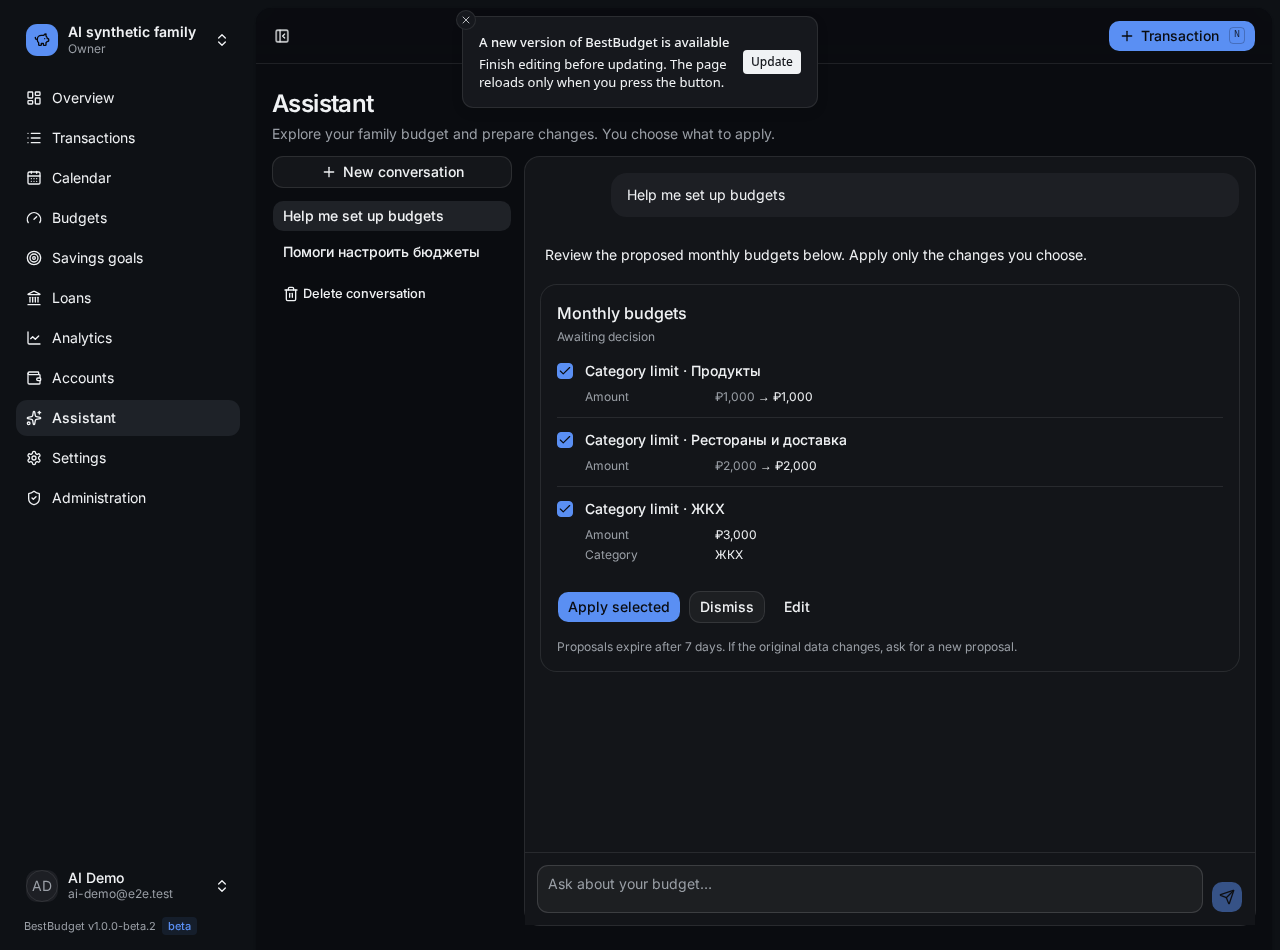
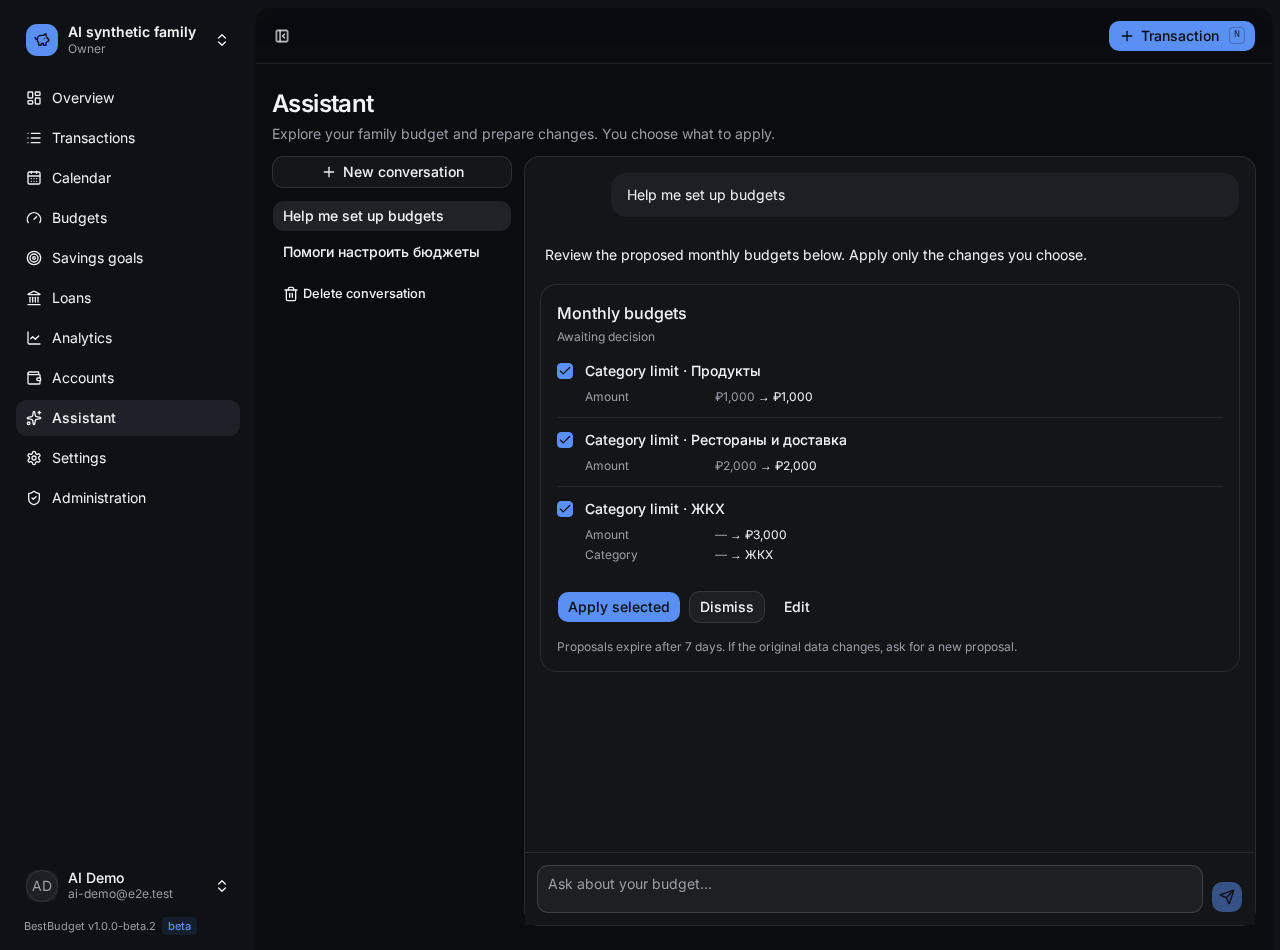
fix(ai): snapshot references and preserve transfer currencies

Changed region(s): [[0.375, 0.0305, 0.625, 0.0916], [0.5625, 0.5495, 0.625, 0.6105]]

diff --git a/tests/integration/ai.test.ts b/tests/integration/ai.test.ts
@@ -24,7 +24,9 @@ import { chatResponse } from "@/server/ai/chat"
 import { applyProposal, createProposal, listProposals } from "@/server/ai/proposals"
 import { buildTools, toolRegistry } from "@/server/ai/tools"
 import { setBudget } from "@/server/services/budgets"
-import { createAccount } from "@/server/services/catalog"
+import { createRules } from "@/server/services/recurring"
+import { proposalCurrency } from "@/domain/ai/description"
+import { createAccount, updateAccount, updateCategory } from "@/server/services/catalog"
 import { todayIn } from "@/lib/dates"
 import { createTransaction } from "@/server/services/transactions"
 import { AI_TURN_RESERVATION } from "@/domain/ai/types"
@@ -245,13 +247,12 @@ describe("AI foundation", () => {
     expect((await householdAiView(f.ctx)).enabled).toBe(true)
   })
   it("rolls back earlier service writes if a later item fails service validation", async () => {
-    const f = await enabled(),
-      other = await setupHousehold("Other account")
+    const f = await enabled()
     const p = await pending(f, [
       { type: "account.create", input: { name: "Rollback account", kind: "savings", currency: "RUB", openingBalance: 0 } },
       {
         type: "goal.create",
-        input: { name: "Wrong reference", kind: "account", accountId: other.mainAccount, currency: "RUB", targetAmount: 1000 },
+        input: { name: "Wrong reference", kind: "account", accountId: f.mainAccount, currency: "RUB", targetAmount: 1000 },
       },
     ])
     await expect(
@@ -260,7 +261,7 @@ describe("AI foundation", () => {
         p.id,
         p.items.map((i) => i.id),
       ),
-    ).rejects.toMatchObject({ code: "not_found" })
+    ).rejects.toMatchObject({ messageKey: "goal.activeSavingsAccount" })
     expect(
       await db
         .select()
@@ -329,16 +330,43 @@ describe("AI foundation", () => {
   it("warns the model when a planned foreign-currency payment has no exchange rate", async () => {
     const f = await enabled()
     const account = await createAccount(f.ctx, { name: "USD", kind: "cash", currency: "USD", openingBalance: 0 })
-    await createTransaction(f.ctx, { type: "expense", status: "planned", accountId: account.id, categoryId: f.cat("Продукты"), date: todayIn(f.ctx.timezone), amount: 100 })
-    const result = await toolRegistry.get("get_forecast")!.execute({ days: 7 }, { ctx: f.ctx, conversationId: f.conversation.id, messageId: randomUUID() }) as { warnings: string[] }
+    await createTransaction(f.ctx, {
+      type: "expense",
+      status: "planned",
+      accountId: account.id,
+      categoryId: f.cat("Продукты"),
+      date: todayIn(f.ctx.timezone),
+      amount: 100,
+    })
+    const result = (await toolRegistry
+      .get("get_forecast")!
+      .execute({ days: 7 }, { ctx: f.ctx, conversationId: f.conversation.id, messageId: randomUUID() })) as { warnings: string[] }
     expect(result.warnings.some((warning) => warning.includes("USD"))).toBe(true)
   })
 
   it("retries an interrupted tool call with a fresh assistant ID and keeps later turns usable", async () => {
     const f = await enabled()
-    const input = { id: f.conversation.id, message: { id: randomUUID(), role: "user" as const, parts: [{ type: "text" as const, text: "Help me set up budgets" }] } }
+    const input = {
+      id: f.conversation.id,
+      message: { id: randomUUID(), role: "user" as const, parts: [{ type: "text" as const, text: "Help me set up budgets" }] },
+    }
     const interrupted = await beginTurn(f.ctx, input)
-    await finishTurn(f.ctx, interrupted, { id: interrupted.messageId, role: "assistant", parts: [{ type: "text", text: "Partial response" }, { type: "tool-list_accounts", toolCallId: "interrupted", state: "input-available", input: {} }] }, 100, 0, 1, "provider_error")
+    await finishTurn(
+      f.ctx,
+      interrupted,
+      {
+        id: interrupted.messageId,
+        role: "assistant",
+        parts: [
+          { type: "text", text: "Partial response" },
+          { type: "tool-list_accounts", toolCallId: "interrupted", state: "input-available", input: {} },
+        ],
+      },
+      100,
+      0,
+      1,
+      "provider_error",
+    )
     const response = await chatResponse(f.ctx, input)
     const stream = await response.text()
     expect(stream).toContain("propose_budget_changes")
@@ -348,6 +376,71 @@ describe("AI foundation", () => {
     expect(proposal!.messageId).not.toBe(interrupted.messageId)
     const next = await chatResponse(f.ctx, { ...input, message: { ...input.message, id: randomUUID() } })
     expect(await next.text()).not.toContain('"type":"error"')
+  })
+
+  it("preserves source and destination currencies for both sides of proposal changes", async () => {
+    const f = await enabled("detailed")
+    const usd = await createAccount(f.ctx, { name: "USD", kind: "cash", currency: "USD", openingBalance: 0 })
+    const eur = await createAccount(f.ctx, { name: "EUR", kind: "cash", currency: "EUR", openingBalance: 0 })
+    const rule = {
+      type: "transfer" as const,
+      accountId: usd.id,
+      toAccountId: eur.id,
+      amount: 100,
+      toAmount: 200,
+      frequency: "once" as const,
+      startDate: todayIn(f.ctx.timezone),
+    }
+    const [created] = await createRules(f.ctx, { rule })
+    const proposal = await pending(f, [
+      {
+        type: "recurring.update",
+        input: {
+          id: created!.id,
+          version: created!.version,
+          rule: { ...rule, accountId: f.mainAccount, toAccountId: usd.id, amount: 5000, toAmount: 100 },
+        },
+      },
+    ])
+    const item = proposal.items[0]!
+    expect(proposalCurrency(item, "amount", true)).toBe("USD")
+    expect(proposalCurrency(item, "amount")).toBe("RUB")
+    expect(proposalCurrency(item, "toAmount", true)).toBe("EUR")
+    expect(proposalCurrency(item, "toAmount")).toBe("USD")
+    await applyProposal(f.ctx, proposal.id, [item.id])
+    const transaction = await createTransaction(f.ctx, {
+      type: "expense",
+      status: "posted",
+      accountId: usd.id,
+      categoryId: f.cat("Продукты"),
+      date: todayIn(f.ctx.timezone),
+      amount: 100,
+    })
+    const recategorize = await pending(f, [{ type: "transaction.recategorize", input: { id: transaction.id, categoryId: f.cat("ЖКХ") } }])
+    expect(recategorize.items[0]).toMatchObject({ currency: "USD", beforeCurrency: "USD" })
+  })
+  it("rejects changes to referenced account currencies and category identities", async () => {
+    const f = await enabled()
+    const usd = await createAccount(f.ctx, { name: "USD", kind: "cash", currency: "USD", openingBalance: 0 })
+    const rule = await pending(f, [
+      {
+        type: "recurring.create",
+        input: {
+          type: "expense",
+          accountId: usd.id,
+          categoryId: f.cat("Продукты"),
+          amount: 100,
+          frequency: "monthly",
+          startDate: todayIn(f.ctx.timezone),
+        },
+      },
+    ])
+    await updateAccount(f.ctx, usd.id, { name: "EUR", kind: "cash", currency: "EUR", openingBalance: 0, version: usd.version })
+    await expect(applyProposal(f.ctx, rule.id, [rule.items[0]!.id])).rejects.toMatchObject({ code: "conflict" })
+    const budget = await pending(f)
+    const categoryId = (budget.items[0]!.input as { categoryId: string }).categoryId
+    await updateCategory(f.ctx, categoryId, { name: "Renamed", icon: "circle", color: "#123456" })
+    await expect(applyProposal(f.ctx, budget.id, [budget.items[0]!.id])).rejects.toMatchObject({ code: "conflict" })
   })
 
 })

diff --git a/src/server/ai/proposal-registry.ts b/src/server/ai/proposal-registry.ts
@@ -1,8 +1,8 @@
 import "server-only"
-import { and, eq } from "drizzle-orm"
+import { and, asc, eq, inArray } from "drizzle-orm"
 import { z } from "zod"
 import { getDb } from "@/db"
-import { categories, categoryBudgets, goals, recurringRules, transactions } from "@/db/schema"
+import { categories, categoryBudgets, financialAccounts, goals, recurringRules, transactions } from "@/db/schema"
 import type { Permission } from "@/domain/permissions"
 import type { HouseholdCtx } from "@/server/context"
 import { notFound } from "@/server/errors"
@@ -60,18 +60,54 @@ async function owned(
   if (!row) throw notFound()
   return JSON.parse(JSON.stringify(row)) as Record<string, unknown>
 }
-const versioned = (table: Parameters<typeof owned>[1]) => (ctx: HouseholdCtx, input: { id: string }, lock: boolean) =>
-  owned(ctx, table, input.id, lock)
+/** Capture referenced accounts/categories as well as the edited entity; their currencies and labels can change independently. */
+async function referenceSnapshot(ctx: HouseholdCtx, values: Record<string, unknown>[], lock: boolean) {
+  const accountIds = [
+    ...new Set(values.flatMap((value) => [value.accountId, value.toAccountId]).filter((id): id is string => typeof id === "string")),
+  ].sort()
+  const categoryIds = [...new Set(values.map((value) => value.categoryId).filter((id): id is string => typeof id === "string"))].sort()
+  const accountQuery = getDb()
+    .select()
+    .from(financialAccounts)
+    .where(and(eq(financialAccounts.householdId, ctx.householdId), inArray(financialAccounts.id, accountIds)))
+    .orderBy(asc(financialAccounts.id))
+  const categoryQuery = getDb()
+    .select()
+    .from(categories)
+    .where(and(eq(categories.householdId, ctx.householdId), inArray(categories.id, categoryIds)))
+    .orderBy(asc(categories.id))
+  const accounts = accountIds.length ? await (lock ? accountQuery.for("update") : accountQuery) : []
+  const cats = categoryIds.length ? await (lock ? categoryQuery.for("update") : categoryQuery) : []
+  if (accounts.length !== accountIds.length || cats.length !== categoryIds.length) throw notFound()
+  return JSON.parse(JSON.stringify({ accounts, categories: cats })) as Record<string, unknown>
+}
+const versioned = (table: Parameters<typeof owned>[1]) => async (ctx: HouseholdCtx, input: { id: string }, lock: boolean) => {
+  const before = await owned(ctx, table, input.id, lock)
+  const data = input as Record<string, unknown>
+  return {
+    ...before,
+    references: await referenceSnapshot(
+      ctx,
+      [before, data, typeof data.rule === "object" && data.rule ? (data.rule as Record<string, unknown>) : {}],
+      lock,
+    ),
+  }
+}
+const referenced = async (ctx: HouseholdCtx, input: Record<string, unknown>, lock: boolean) => ({
+  references: await referenceSnapshot(ctx, [input], lock),
+})
 registerProposal("budget.set", budgetInput, {
   permission: "catalog.manage",
   async snapshot(ctx, input, lock) {
-    await owned(ctx, categories, input.categoryId, lock)
+    const category = await owned(ctx, categories, input.categoryId, lock)
     const query = getDb()
       .select()
       .from(categoryBudgets)
       .where(and(eq(categoryBudgets.householdId, ctx.householdId), eq(categoryBudgets.categoryId, input.categoryId)))
     const [row] = await (lock ? query.for("update") : query)
-    return row ? { id: row.id, version: row.version, categoryId: row.categoryId, amount: row.amount } : null
+    return row
+      ? { id: row.id, version: row.version, categoryId: row.categoryId, amount: row.amount, categorySnapshot: category }
+      : { categorySnapshot: category }
   },
   apply: async (ctx, input) => {
     await setBudget(ctx, input)
@@ -105,6 +141,7 @@ registerProposal("account.create", accountInput, {
 })
 registerProposal("recurring.create", ruleInput, {
   permission: "finance.write",
+  snapshot: referenced,
   apply: async (ctx, input) => ({
     href: "/transactions?tab=rules",
     entityId: (await createRules(ctx, { rule: input }, undefined, ctx.locale))[0]!.id,
@@ -130,6 +167,7 @@ registerProposal("recurring.pause", idInput.extend({ endDate: isoDate }), {
 })
 registerProposal("goal.create", goalInput, {
   permission: "finance.write",
+  snapshot: referenced,
   apply: async (ctx, input) => {
     const goal = await createGoal(ctx, input)
     return { href: `/goals/${goal.id}`, entityId: goal.id }
@@ -150,6 +188,7 @@ registerProposal("goal.automate", automationInput.extend(idInput.shape), {
     const preview = await previewGoalAutomation(ctx, input.id, input)
     return {
       ...goal,
+      references: await referenceSnapshot(ctx, [goal, input], lock),
       automationPreview: {
         amount: preview.amount,
         toAmount: preview.toAmount,
@@ -193,6 +232,7 @@ registerProposal("transaction.recategorize", idInput.extend({ categoryId: z.uuid
 })
 registerProposal("import.rule", categoryRuleInput, {
   permission: "finance.write",
+  snapshot: referenced,
   apply: async (ctx, input) => ({ href: "/transactions/import", entityId: await saveCategoryRule(ctx, input) }),
 })
 

diff --git a/src/components/app/ai/proposal-card.tsx b/src/components/app/ai/proposal-card.tsx
@@ -9,7 +9,7 @@ import { Card, CardContent, CardHeader, CardTitle } from "@/components/ui/card"
 import { LinkButton } from "@/components/app/link-button"
 import { useAction } from "@/hooks/use-action"
 import { can, type HouseholdRole } from "@/domain/permissions"
-import { proposalChanges } from "@/domain/ai/description"
+import { proposalChanges, proposalCurrency } from "@/domain/ai/description"
 import type { ProposalItem } from "@/domain/ai/types"
 import { formatMoney } from "@/lib/money"
 import type { aiProposals } from "@/db/schema"
@@ -41,9 +41,11 @@ export function ProposalCard({
   const { pending, run } = useAction()
   const [selected, setSelected] = useState(() => proposal.items.filter((i) => !i.result && can(role, i.permission)).map((i) => i.id))
   const open = !proposal.expired && ["pending", "partially_applied"].includes(proposal.status)
-  function value(field: string, raw: unknown, item: ProposalItem) {
+  function value(field: string, raw: unknown, item: ProposalItem, before = false) {
     if (raw === null || raw === undefined) return t("none")
-    if (MONEY_FIELDS.has(field) && typeof raw === "number") return formatMoney(raw, item.currency, { locale })
+    if (MONEY_FIELDS.has(field) && typeof raw === "number" && item.type === "import.rule" && !item.after.currency)
+      return t("minorUnits", { value: new Intl.NumberFormat(locale).format(raw) })
+    if (MONEY_FIELDS.has(field) && typeof raw === "number") return formatMoney(raw, proposalCurrency(item, field, before), { locale })
     if (typeof raw === "boolean") return t(`values.${raw ? "yes" : "no"}`)
     if (typeof raw === "string") return names[raw] ?? (t.has(`values.${raw}`) ? t(`values.${raw}`) : raw)
     return String(raw)
@@ -82,7 +84,7 @@ export function ProposalCard({
                       <dd className="min-w-0 break-words">
                         {item.before ? (
                           <>
-                            <span className="text-muted-foreground">{value(field, before, item)}</span>
+                            <span className="text-muted-foreground">{value(field, before, item, true)}</span>
                             <span aria-hidden> → </span>
                           </>
                         ) : null}

diff --git a/src/server/ai/proposals.ts b/src/server/ai/proposals.ts
@@ -62,10 +62,13 @@ export async function createProposal(
       const { listCategories } = await import("@/server/services/catalog")
       label = (await listCategories(ctx, { includeArchived: true })).find((c) => c.id === after.categoryId)?.name ?? label
     }
-    if (!after.currency && typeof after.accountId === "string") {
-      const { listAccounts } = await import("@/server/services/catalog")
-      after.currency = (await listAccounts(ctx, { includeArchived: true })).find((a) => a.id === after.accountId)?.currency ?? ctx.currency
-    }
+    const accounts = z
+      .array(z.object({ id: z.uuid(), currency: z.string() }))
+      .parse((before?.references as Record<string, unknown> | undefined)?.accounts ?? [])
+    const accountCurrency = (id: unknown) => accounts.find((account) => account.id === id)?.currency
+    const currency =
+      typeof after.currency === "string" ? after.currency : (accountCurrency(after.accountId ?? before?.accountId) ?? ctx.currency)
+    const beforeCurrency = typeof before?.currency === "string" ? before.currency : (accountCurrency(before?.accountId) ?? ctx.currency)
     items.push({
       id: randomUUID(),
       type: item.type,
@@ -76,7 +79,10 @@ export async function createProposal(
       permission: handler.permission,
       householdCurrency: ctx.currency,
       householdTimezone: ctx.timezone,
-      currency: typeof after.currency === "string" ? after.currency : ctx.currency,
+      currency,
+      beforeCurrency,
+      toCurrency: accountCurrency(after.toAccountId ?? before?.toAccountId),
+      beforeToCurrency: accountCurrency(before?.toAccountId),
     })
   }
   const [proposal] = await getDb()

diff --git a/src/server/ai/tools/read.ts b/src/server/ai/tools/read.ts
@@ -185,7 +185,13 @@ registerTool({
   description: "Daily balance forecast for 1–366 days; no descriptions or notes.",
   inputSchema: forecastInput,
   execute: async (input, { ctx }) => {
-    const forecast = await projection(ctx, todayIn(ctx.timezone), addDays(todayIn(ctx.timezone), input.days - 1), todayIn(ctx.timezone), ctx.locale)
+    const forecast = await projection(
+      ctx,
+      todayIn(ctx.timezone),
+      addDays(todayIn(ctx.timezone), input.days - 1),
+      todayIn(ctx.timezone),
+      ctx.locale,
+    )
     return { currency: ctx.currency, days: forecast.days, warnings: forecast.warnings }
   },
 })

diff --git a/src/domain/ai/description.ts b/src/domain/ai/description.ts
@@ -13,3 +13,9 @@ export function proposalChanges(item: ProposalItem) {
     )
     .map(([field, after]) => ({ field, before: item.before?.[field] ?? null, after }))
 }
+
+/** A transfer's credited amount uses the destination currency, including the original account before an edit. */
+export function proposalCurrency(item: ProposalItem, field: string, before = false) {
+  if (field === "toAmount") return (before ? item.beforeToCurrency : item.toCurrency) ?? item.currency
+  return (before ? item.beforeCurrency : item.currency) ?? item.currency
+}

diff --git a/src/domain/ai/types.ts b/src/domain/ai/types.ts
@@ -18,6 +18,9 @@ export interface ProposalItem {
   permission: Permission
   label: string
   currency: string
+  beforeCurrency?: string
+  toCurrency?: string
+  beforeToCurrency?: string
   householdCurrency: string
   householdTimezone: string
   result?: { href: string; entityId?: string }

diff --git a/docs/ai.md b/docs/ai.md
@@ -105,7 +105,7 @@ extraVolumeMounts:
 
 `propose_*` сохраняет `pending` proposal и ничего не меняет в финансовых сущностях. В карточке показаны тип изменения, название, суммы/даты и изменённые поля «было → станет». Пользователь выбирает пункты; недоступные по роли пункты отключены. **Изменить** заполняет поле уточнения, **Отклонить** закрывает оставшиеся пункты.
 
-Применение повторно проверяет членство, согласие, права, базовую валюту/часовой пояс семьи, серверный снимок и версии. Весь выбранный пакет выполняется в одной транзакции через существующие сервисы. Вложенные сервисные транзакции — savepoints; ошибка любого пункта откатывает пакет. Категории и лимиты получили аддитивную колонку `version DEFAULT 1`; обычные изменения также увеличивают версии. Снимок лимита включает ID, поэтому удаление и повторное создание не обходят проверку.
+Применение повторно проверяет членство, согласие, права, базовую валюту/часовой пояс семьи, серверный снимок и версии. Весь выбранный пакет выполняется в одной транзакции через существующие сервисы. Вложенные сервисные транзакции — savepoints; ошибка любого пункта откатывает пакет. Категории и лимиты получили аддитивную колонку `version DEFAULT 1`; обычные изменения также увеличивают версии. Снимок лимита включает ID и исходную категорию, поэтому удаление, повторное создание и переименование не обходят проверку. Снимки также сохраняют версии и валюты связанных счетов/категорий: смена валюты ещё не использованного счёта после предложения вызывает конфликт. Для переводов обе суммы показываются в соответствующих валютах, отдельно для состояния до и после изменения.
 
 Результат каждого пункта сохраняет ссылку и ID сущности. Повторное применение не создаёт вторую сущность. Можно применить ещё не выбранные пункты позднее. Предложения действуют 7 дней; после изменения исходных данных запросите новое. Аудит существующих сервисов содержит действующего пользователя (`actorId`) и `meta.source = "ai"`, `meta.proposalId`; модель не является финансовым автором.
 
@@ -116,7 +116,7 @@ extraVolumeMounts:
 - До 8 шагов генерации, до 32 вызовов инструментов за ход, последовательно; ответ до 2048 токенов на шаг.
 - До 4000 символов пользовательского сообщения; контекст вместе со схемами инструментов ограничен 64 000 байт на шаг, результат инструмента — 24 000 байт. Большой диалог нужно начать заново, слишком большой результат — сузить периодом/поиском.
 - До 10 запросов в минуту на пользователя; одна активная генерация на диалог. Лимиты и резерв токенов хранятся в БД и сериализуются блокировками, поэтому работают между репликами.
-- Таймаут: 90 секунд на ход, 25 секунд на шаг, 15 секунд на инструмент. Автоматические сетевые повторы отключены. Пользователь видит ошибку и кнопку **Повторить**.
+- Таймаут: 90 секунд на ход, 25 секунд на шаг, 15 секунд на инструмент. Автоматические сетевые повторы отключены. Пользователь видит ошибку и кнопку **Повторить**. Повтор обрезает контекст до исходного сообщения пользователя и создаёт новый ID ответа; незавершённые tool calls предыдущих попыток не отправляются в модель. Сами попытки остаются в приватной истории.
 - Месяц учёта — UTC. `0` отключает квоту, но сохраняет учёт. Системный администратор видит токены входа, выхода и резерв по семьям.
 - **Консервативный резерв:** перед запросом резервируется `8 × (64000 + 2048) = 528384` токена. При ненулевом лимите остаток должен покрывать резерв. Это намеренно строгий выбор, исключающий одновременный перерасход по нескольким диалогам без токенизаторов каждого провайдера. Для небольшой квоты уменьшите константы в контролируемом изменении; не обходите проверку на клиенте.
 - После успешного ответа резерв заменяется фактическим использованием SDK. Если провайдер не сообщил usage, используется верхняя оценка. После ошибки/отмены/падения процесса резерв сохраняется до конца месяца: это консервативный учёт возможного оплаченного запроса, а не подтверждение реально потраченных токенов. Администратор может увеличить лимит. Автоматическое «освобождение зависшего резерва» без сверки с провайдером не выполняется.
